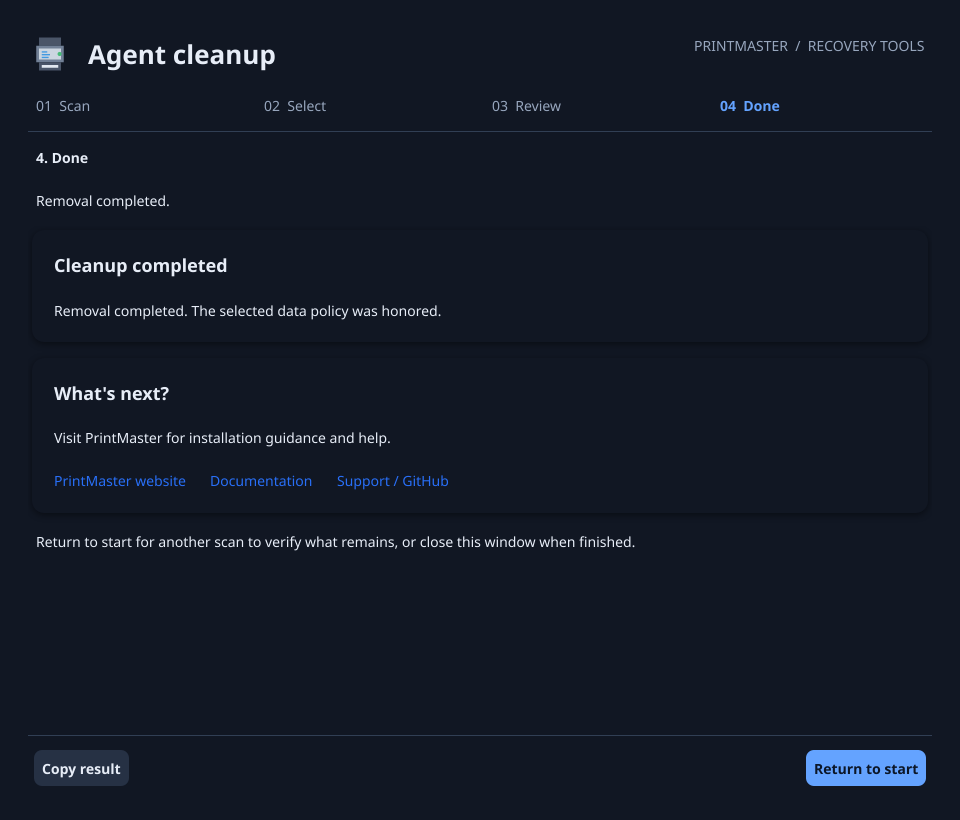
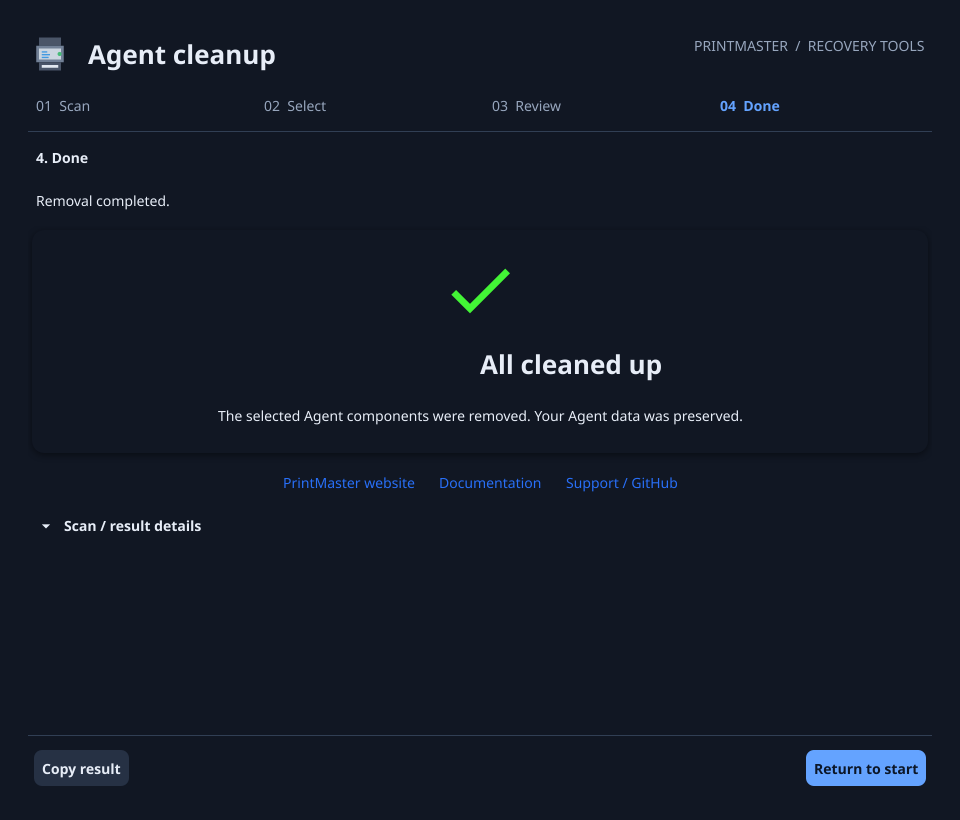
docs(deployment): explain clean outcomes and protected agent leftovers
Show updated completion screenshots and distinguish successful selected removal from a clean inventory. Document protected installation directories, non-recursive recovery, and actionable bootstrap messages that require a newer Server.

Implementation: Printmaster-Org/printmaster-agent-cleanup@5ffeee8a1ad4b73e894f37ff951f54d5e9cd74e2
Implementation: Printmaster-Org/printmaster-agent-cleanup@f257a7a867f36a32689ed88b1d65ecaf40f0b531
Implementation: Printmaster-Org/printmaster@d5f4d7a1826cbb9ce984e6667a1317c3899de45f

diff --git a/content/deployment/agent-cleanup.md b/content/deployment/agent-cleanup.md
@@ -57,6 +57,8 @@ The welcome screen does **not** scan automatically. Select **Scan this device** 
 
 The welcome screen's **Read the cleanup utility guide** link opens this page in your browser.
 
+In the development build, a clean scan goes directly to [Done](#4-done-check-the-outcome-and-return-to-the-beginning). Selection and removal controls appear only when there are findings to review.
+
 ## 2. Select: choose installations and the data policy
 
 Recognized installations appear as selectable cards. Expand **Paths and identification evidence** to inspect exact paths, ownership evidence, and discovered processes. **Advanced diagnostics** contains the technical inventory JSON and a copyable CLI scan command.
@@ -67,7 +69,7 @@ Leave **Permanently purge Agent data** unchecked to preserve state for later reu
 
 If entries are unrecognized, removal is blocked. Resolve them with the installation owner or collect diagnostics for support; do not broaden paths or delete shared directories to make the warning disappear.
 
-**Development build:** leftover machine-wide Windows Agent data can be listed even when its executable is gone. An empty bootstrap `bin` directory can also appear as a recoverable leftover. See [bootstrap recovery](#bootstrap-still-refuses-a-fresh-install) below.
+**Development build:** leftover machine-wide Windows Agent data can be listed even when its executable is gone. Empty bootstrap `bin` and protected Program Files `PrintMaster\Agent` directories can also appear as recoverable leftovers. See [bootstrap recovery](#bootstrap-still-refuses-a-fresh-install) below.
 
 ## 3. Review: inspect the plan and hold to confirm
 
@@ -88,7 +90,15 @@ During removal the page shows an activity indicator. Do not close the window. If
 
 ## 4. Done: check the outcome and return to the beginning
 
-The development build's Done page reports success or the error, provides **Copy result**, and links to the PrintMaster website, documentation, and GitHub support.
+The development build's Done page gives a quick visual outcome:
+
+- **Nothing to clean up** with a large green check means the scan found no known Agent installations, leftover files, or unrecognized entries. The utility skips Select and Review, and no changes were made.
+- **All cleaned up** with a large green check means removal of the **selected components** completed successfully. The message states whether Agent data was preserved or purged; it does not claim that unselected installations were removed or that a verification scan ran.
+- Scan and removal failures show the error **without a green check**. Unrecognized entries and leftovers stay on Select for review; they never count as a clean scan.
+
+The page provides **Copy result**, collapsed **Scan / result details**, and links to the PrintMaster website, documentation, and GitHub support. Copied results include the scan inventory from before any cleanup.
+
+![A clean scan goes directly to Done with a large green check and Nothing to clean up.](/images/agent-cleanup/clean.png)
 
 ![Done screen with the cleanup result, PrintMaster resource links, Copy result, and Return to start.](/images/agent-cleanup/done.png)
 
@@ -102,17 +112,19 @@ A typical single-installation flow fits without scrolling at a window size of 90
 
 A bootstrap message such as **Existing Agent files or data found at `C:\ProgramData\PrintMaster\bin`** means the fresh-install guard found that path. It does **not** necessarily mean an Agent process is still installed: the guard rejects even an empty directory.
 
+**Existing protected Agent installation found** refers to `PrintMaster\Agent` beneath Program Files or Program Files (x86). Older bootstrap scripts do not include the path in that message. Updated development Server scripts name the exact blocking directory and explain that it may be empty; legacy-executable refusals also name the file. Updating only the cleanup utility does not change a script served by an older Server.
+
 In RC.5, executable removal can leave that empty directory behind, and leftover machine-wide data without an executable may not appear in the scan. Use a newer release **only if its notes include leftover-directory recovery**, or a reviewed development build that contains it.
 
 With the development build documented here:
 
 1. Return to start and scan again.
 2. Review cards labeled **Leftover Agent files / directories**.
-3. If only the empty bootstrap directory remains, select it and review the plan. Removing this directory does not require purging Agent data.
+3. If only an empty bootstrap `bin` or protected Program Files `PrintMaster\Agent` directory remains, select it and review the plan. Removing an empty installation directory does not require purging Agent data.
 4. If Agent data remains and you want a completely fresh installation, back it up and explicitly select **Permanently purge Agent data**.
 5. Hold to confirm, then return to start and rescan before retrying bootstrap.
 
-The empty-directory action is **non-recursive**. It refuses linked paths or a directory with remaining files. Unknown or shared bootstrap-directory contents are reported and block removal; they are not erased. The shared `%ProgramData%\PrintMaster` root is not an allowed empty-directory removal target.
+The empty-directory action is **non-recursive**. It refuses linked paths or a directory with remaining files. Unknown or shared installation-directory contents are reported and block removal; they are not erased. Registered MSI contents remain managed by Windows Installer. Shared `PrintMaster` parent directories are not allowed empty-directory removal targets. If a location cannot be inspected, the scan fails with an error rather than showing a green check.
 
 Preserved Agent data may intentionally continue to block a fresh bootstrap. That is different from an empty-directory leftover: decide whether the data should be retained, restored through an owner-controlled installation process, or explicitly purged.
 
